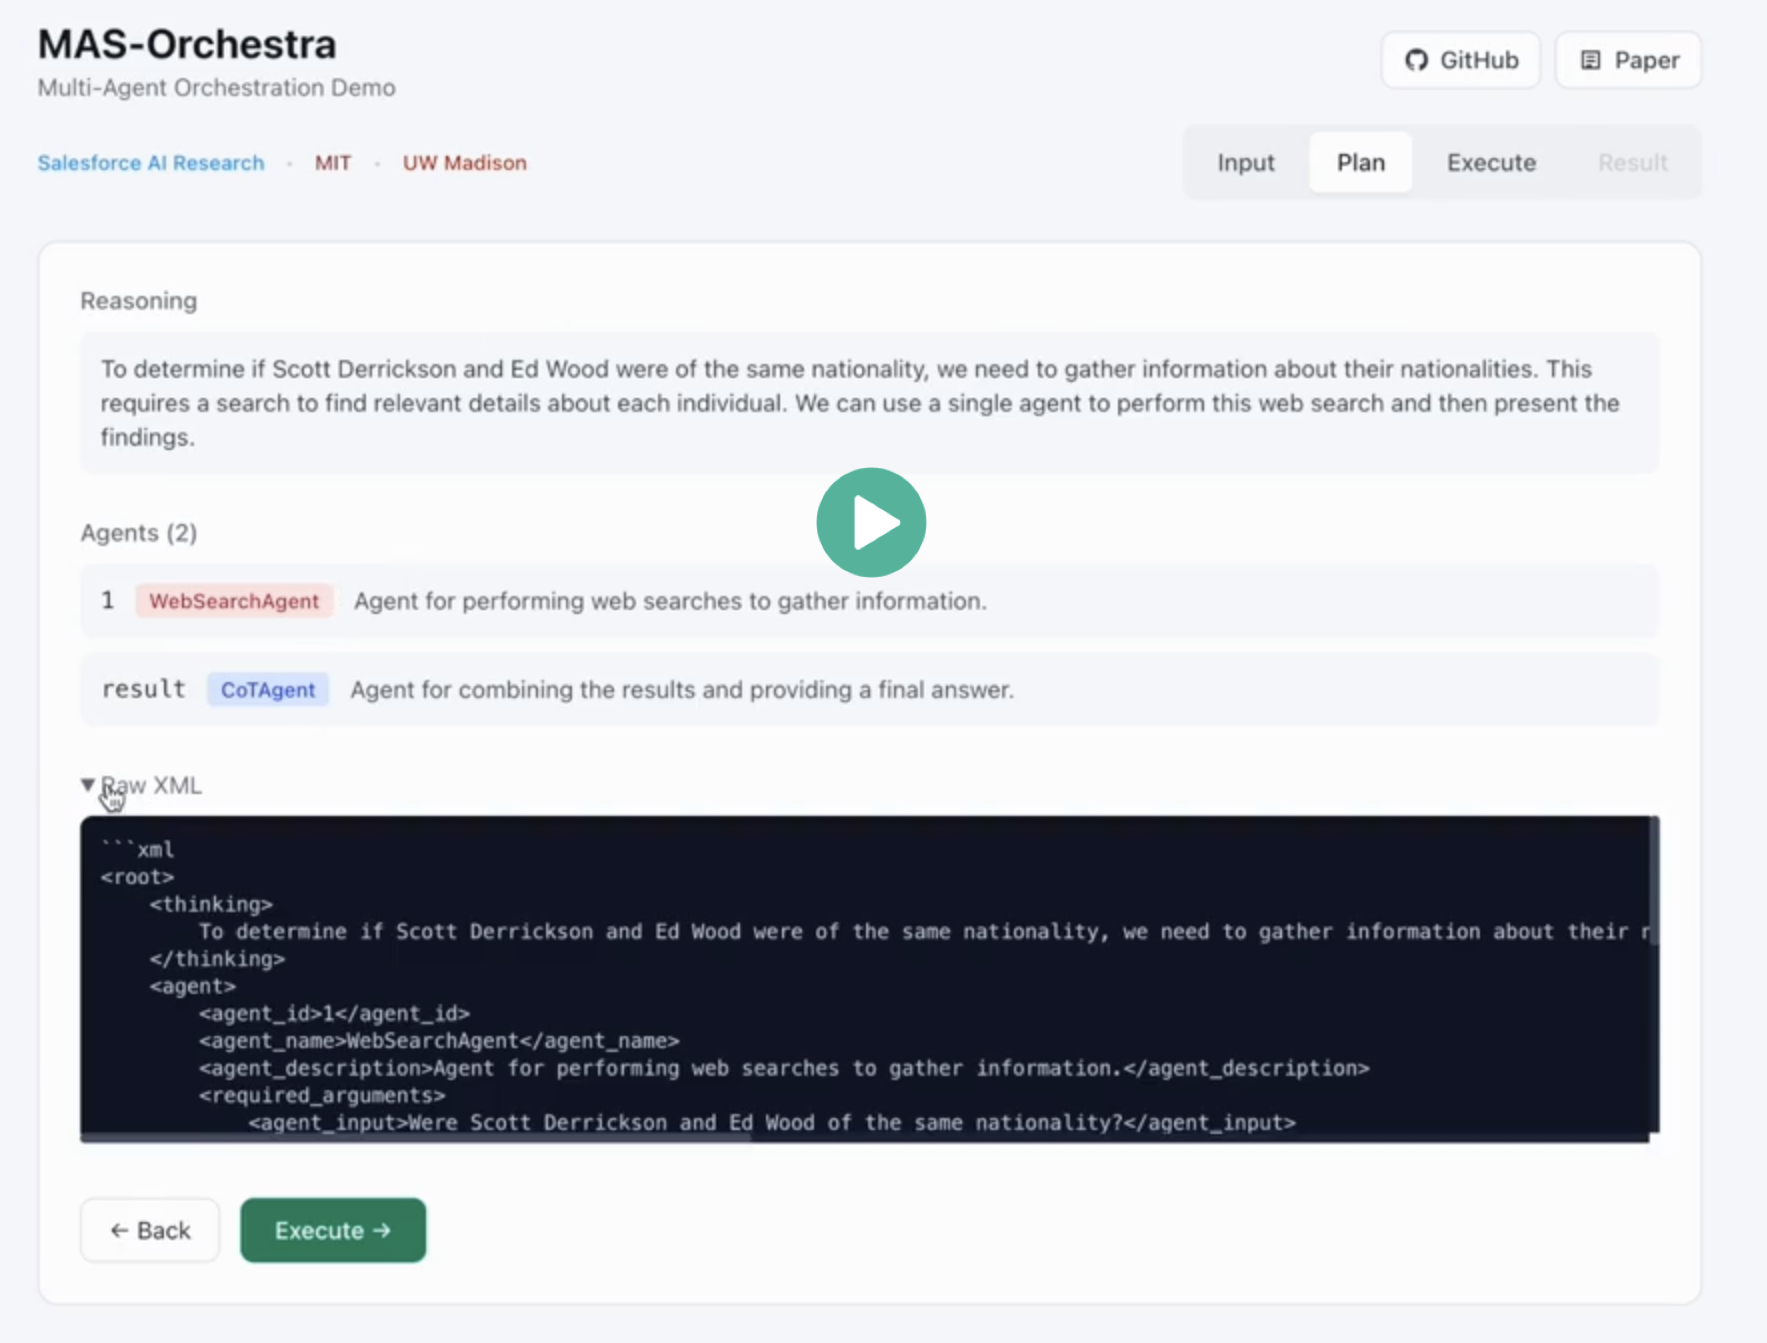
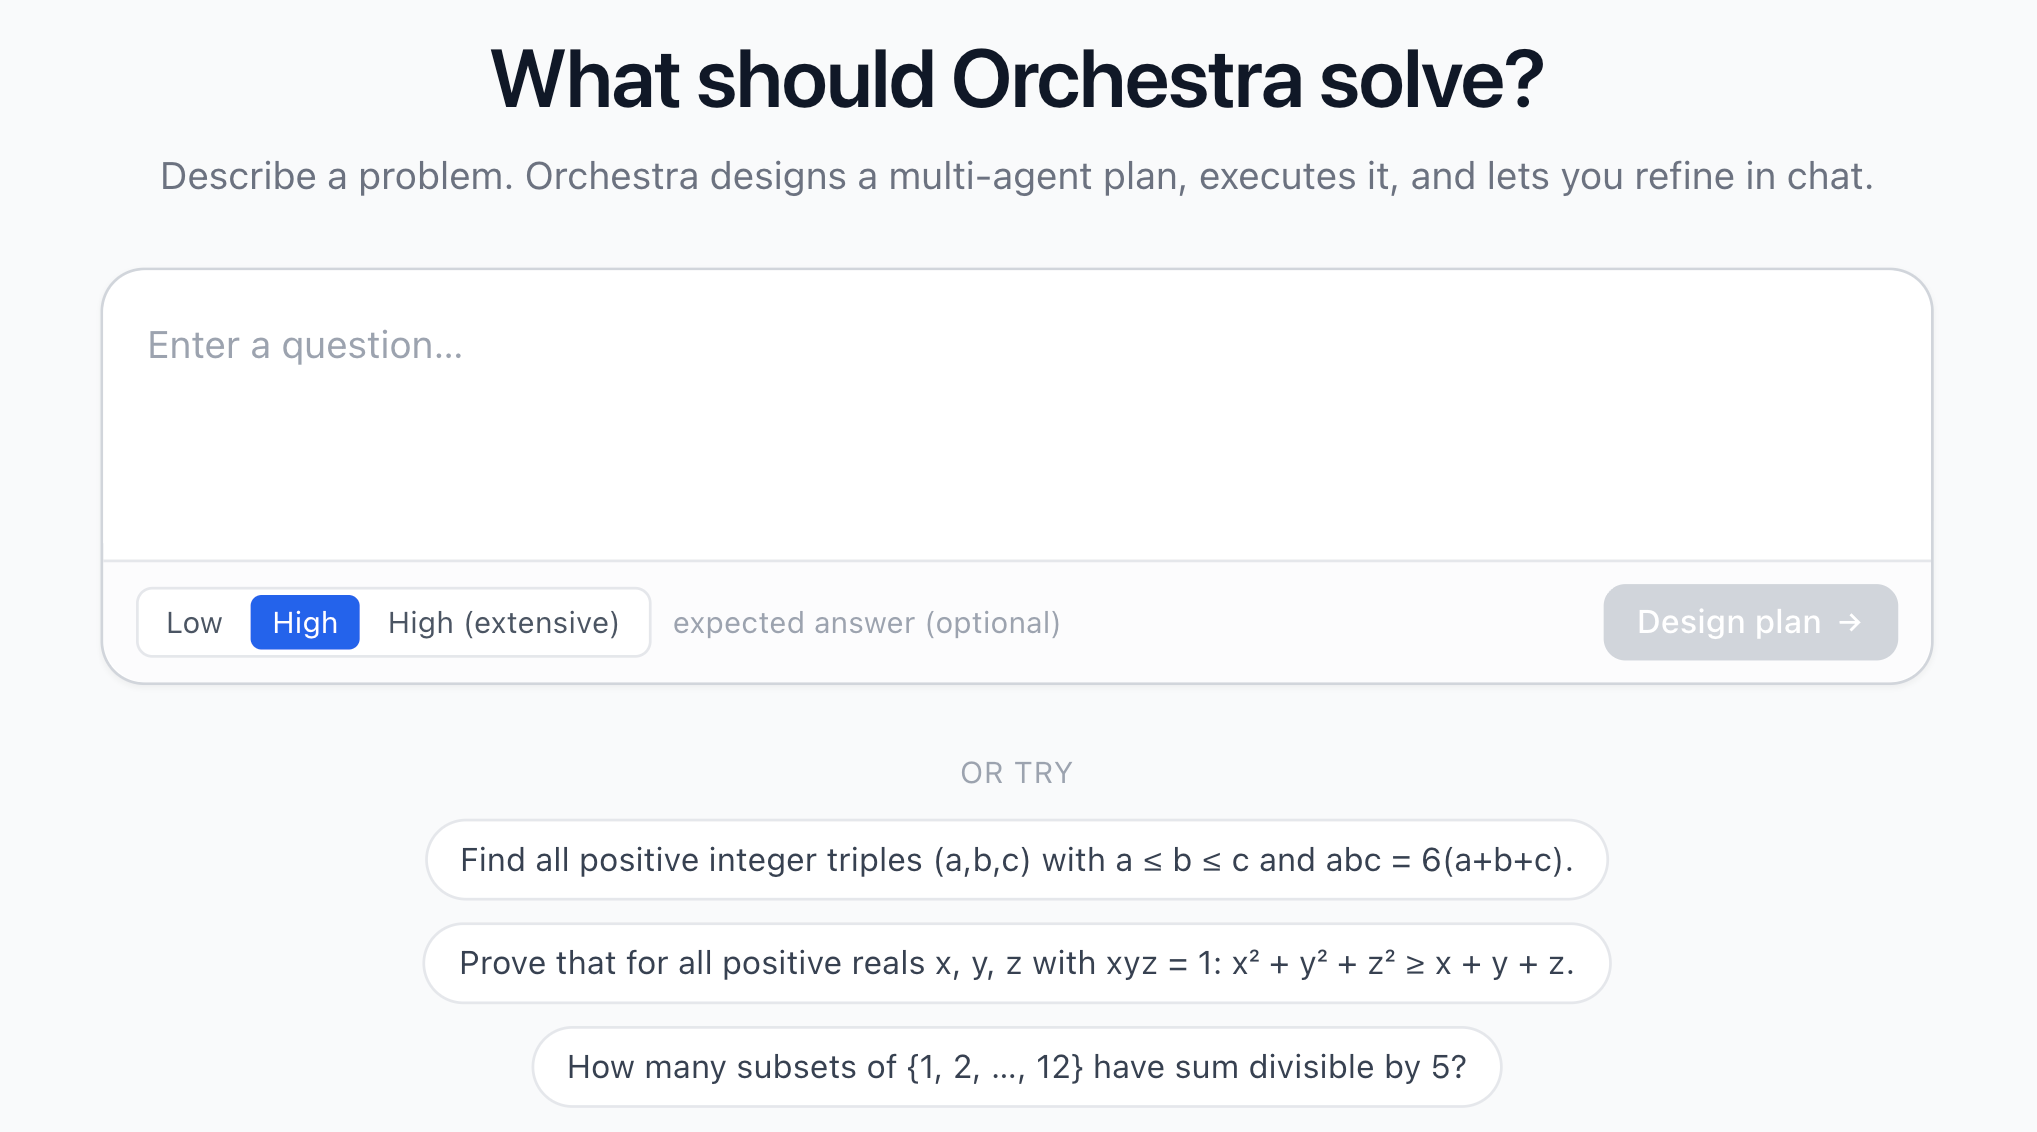
+

diff --git a/README.md b/README.md
@@ -50,21 +50,21 @@
 - 🏠 [[Project Page]](https://vincent950129.github.io/mas-design/mas_r1/)
 - 📜 [[Paper]](https://arxiv.org/abs/2601.14652)
 - 💻 [[Code]](https://github.com/SalesforceAIResearch/MAS-Orchestra)
-- 🚀 [[Live Demo]](https://vincent950129.github.io/mas-design/mas_r1/demo)
-- 🎬 [[Video Demo]](#demo) ([video link](https://drive.google.com/file/d/1FO2H-N1EemQ6_ju1b58_G5jWhs92ZRgu/view?usp=drive_link))
-
+- 🚀 [[Demo]](https://vincent950129.github.io/mas-design/mas_r1/demo)
 <!-- ============================================== -->
 <div align="left">
   <h1 id="demo">🎬 Demo</h1>
   <hr style="height: 3px; background: linear-gradient(90deg, #EF8E8D, #5755A3); border: none; border-radius: 3px;">
 </div>
 
-<p>
-  A short illustration of MAS-Orchestra (AIME24 as an example). 
+<p align="center">
+  <a href="https://vincent950129.github.io/mas-design/mas_r1/demo">
+    <img src="https://img.shields.io/badge/Try%20Live%20Demo-ff6f61?style=for-the-badge&logo=rocket&logoColor=white" alt="Try Live Demo">
+  </a>
 </p>
 
 <p align="center">
-  <a href="https://drive.google.com/file/d/1FO2H-N1EemQ6_ju1b58_G5jWhs92ZRgu/view?usp=drive_link">
+  <a href="https://vincent950129.github.io/mas-design/mas_r1/demo">
     <img src="figures/demo_teaser.png" alt="MAS-Orchestra Demo Video" width="80%">
   </a>
 </p>
@@ -164,6 +164,33 @@ python -m absolute_zero_reasoner.data_construction.process_code_reasoning_data
 | Math (AIME) | [harmony-grpo-7b-global-step-180](https://huggingface.co/ZixuanKe/harmony-grpo-7b-global-step-180) |
 | HotpotQA | [harmony-medium-grpo-7b-hotpot-global-step-250](https://huggingface.co/ZixuanKe/harmony-medium-grpo-7b-hotpot-global-step-250) |
 | BrowseComp+ | [harmony-medium-grpo-7b-browse-comp-plus-global-step-140](https://huggingface.co/ZixuanKe/harmony-medium-grpo-7b-browse-comp-plus-global-step-140) |
+
+## 🔌 Use via API
+
+The trained orchestrators can also be called via API without downloading. Check out the notebook below for usage:
+
+<p align="center">
+  <a href="https://colab.research.google.com/drive/1tOqZ7J3dA8mQPDdYT6M7y0pJqiX11eKO?usp=sharing">
+    <img src="https://img.shields.io/badge/Open%20in%20Colab-F9AB00?style=for-the-badge&logo=googlecolab&logoColor=white" alt="Open in Colab">
+  </a>
+</p>
+
+<p align="center">
+  <img src="https://img.shields.io/badge/dynamic/json?url=https%3A%2F%2Fdiscern-stroller-recycling.ngrok-free.dev%2Fcounts&query=%24.models.math&label=%F0%9F%93%8A%20Math%20(AIME)&color=blue&style=for-the-badge" alt="Math API Calls">
+  <img src="https://img.shields.io/badge/dynamic/json?url=https%3A%2F%2Fdiscern-stroller-recycling.ngrok-free.dev%2Fcounts&query=%24.models.hotpotqa&label=%F0%9F%93%8A%20HotpotQA&color=blue&style=for-the-badge" alt="HotpotQA API Calls">
+  <img src="https://img.shields.io/badge/dynamic/json?url=https%3A%2F%2Fdiscern-stroller-recycling.ngrok-free.dev%2Fcounts&query=%24.models.browsecomp&label=%F0%9F%93%8A%20BrowseComp%2B&color=blue&style=for-the-badge" alt="BrowseComp+ API Calls">
+  <img src="https://img.shields.io/badge/dynamic/json?url=https%3A%2F%2Fdiscern-stroller-recycling.ngrok-free.dev%2Fcounts&query=%24.total&label=%F0%9F%93%8A%20Total%20Calls&color=brightgreen&style=for-the-badge" alt="Total API Calls">
+</p>
+
+<p align="center">
+  <a href="https://discern-stroller-recycling.ngrok-free.dev/charts">
+    <picture>
+      <source media="(prefers-color-scheme: dark)" srcset="https://discern-stroller-recycling.ngrok-free.dev/chart.svg?theme=dark&legend=top-left" />
+      <source media="(prefers-color-scheme: light)" srcset="https://discern-stroller-recycling.ngrok-free.dev/chart.svg?theme=light&legend=top-left" />
+      <img alt="Call History Chart" src="https://discern-stroller-recycling.ngrok-free.dev/chart.svg?theme=light&legend=top-left" width="80%" />
+    </picture>
+  </a>
+</p>
 
 <!-- ============================================== -->
 <div align="left">